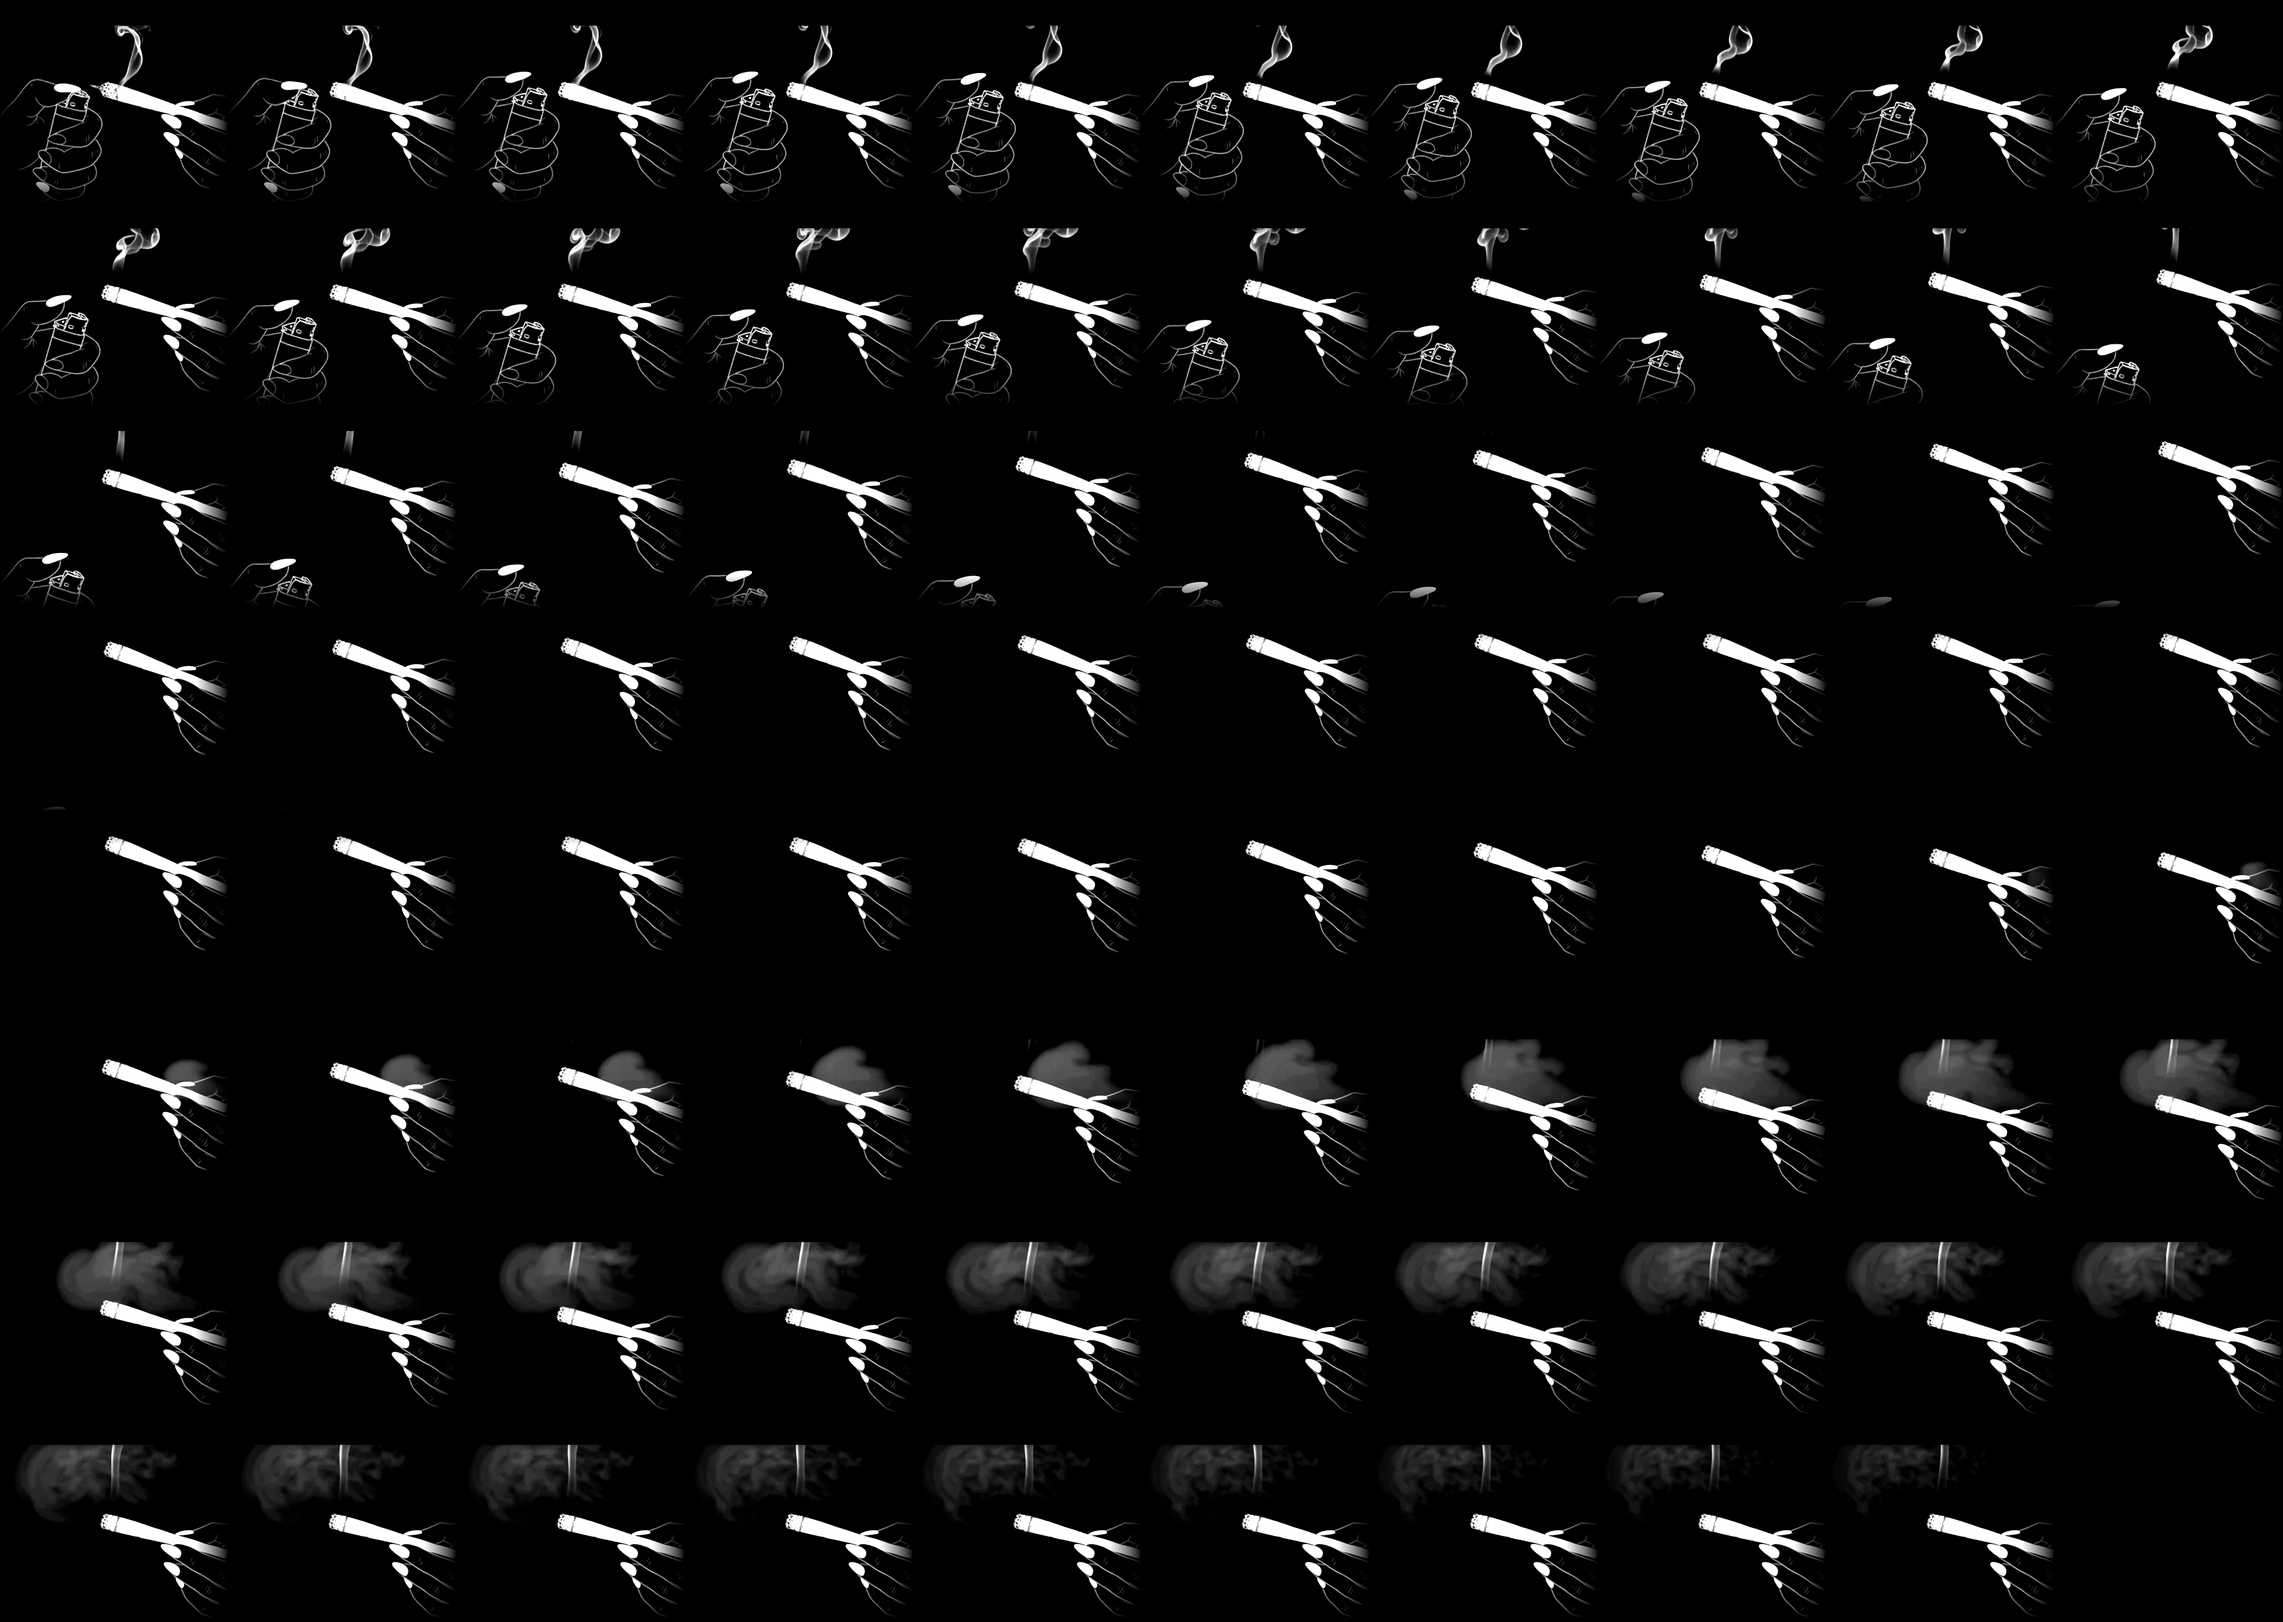
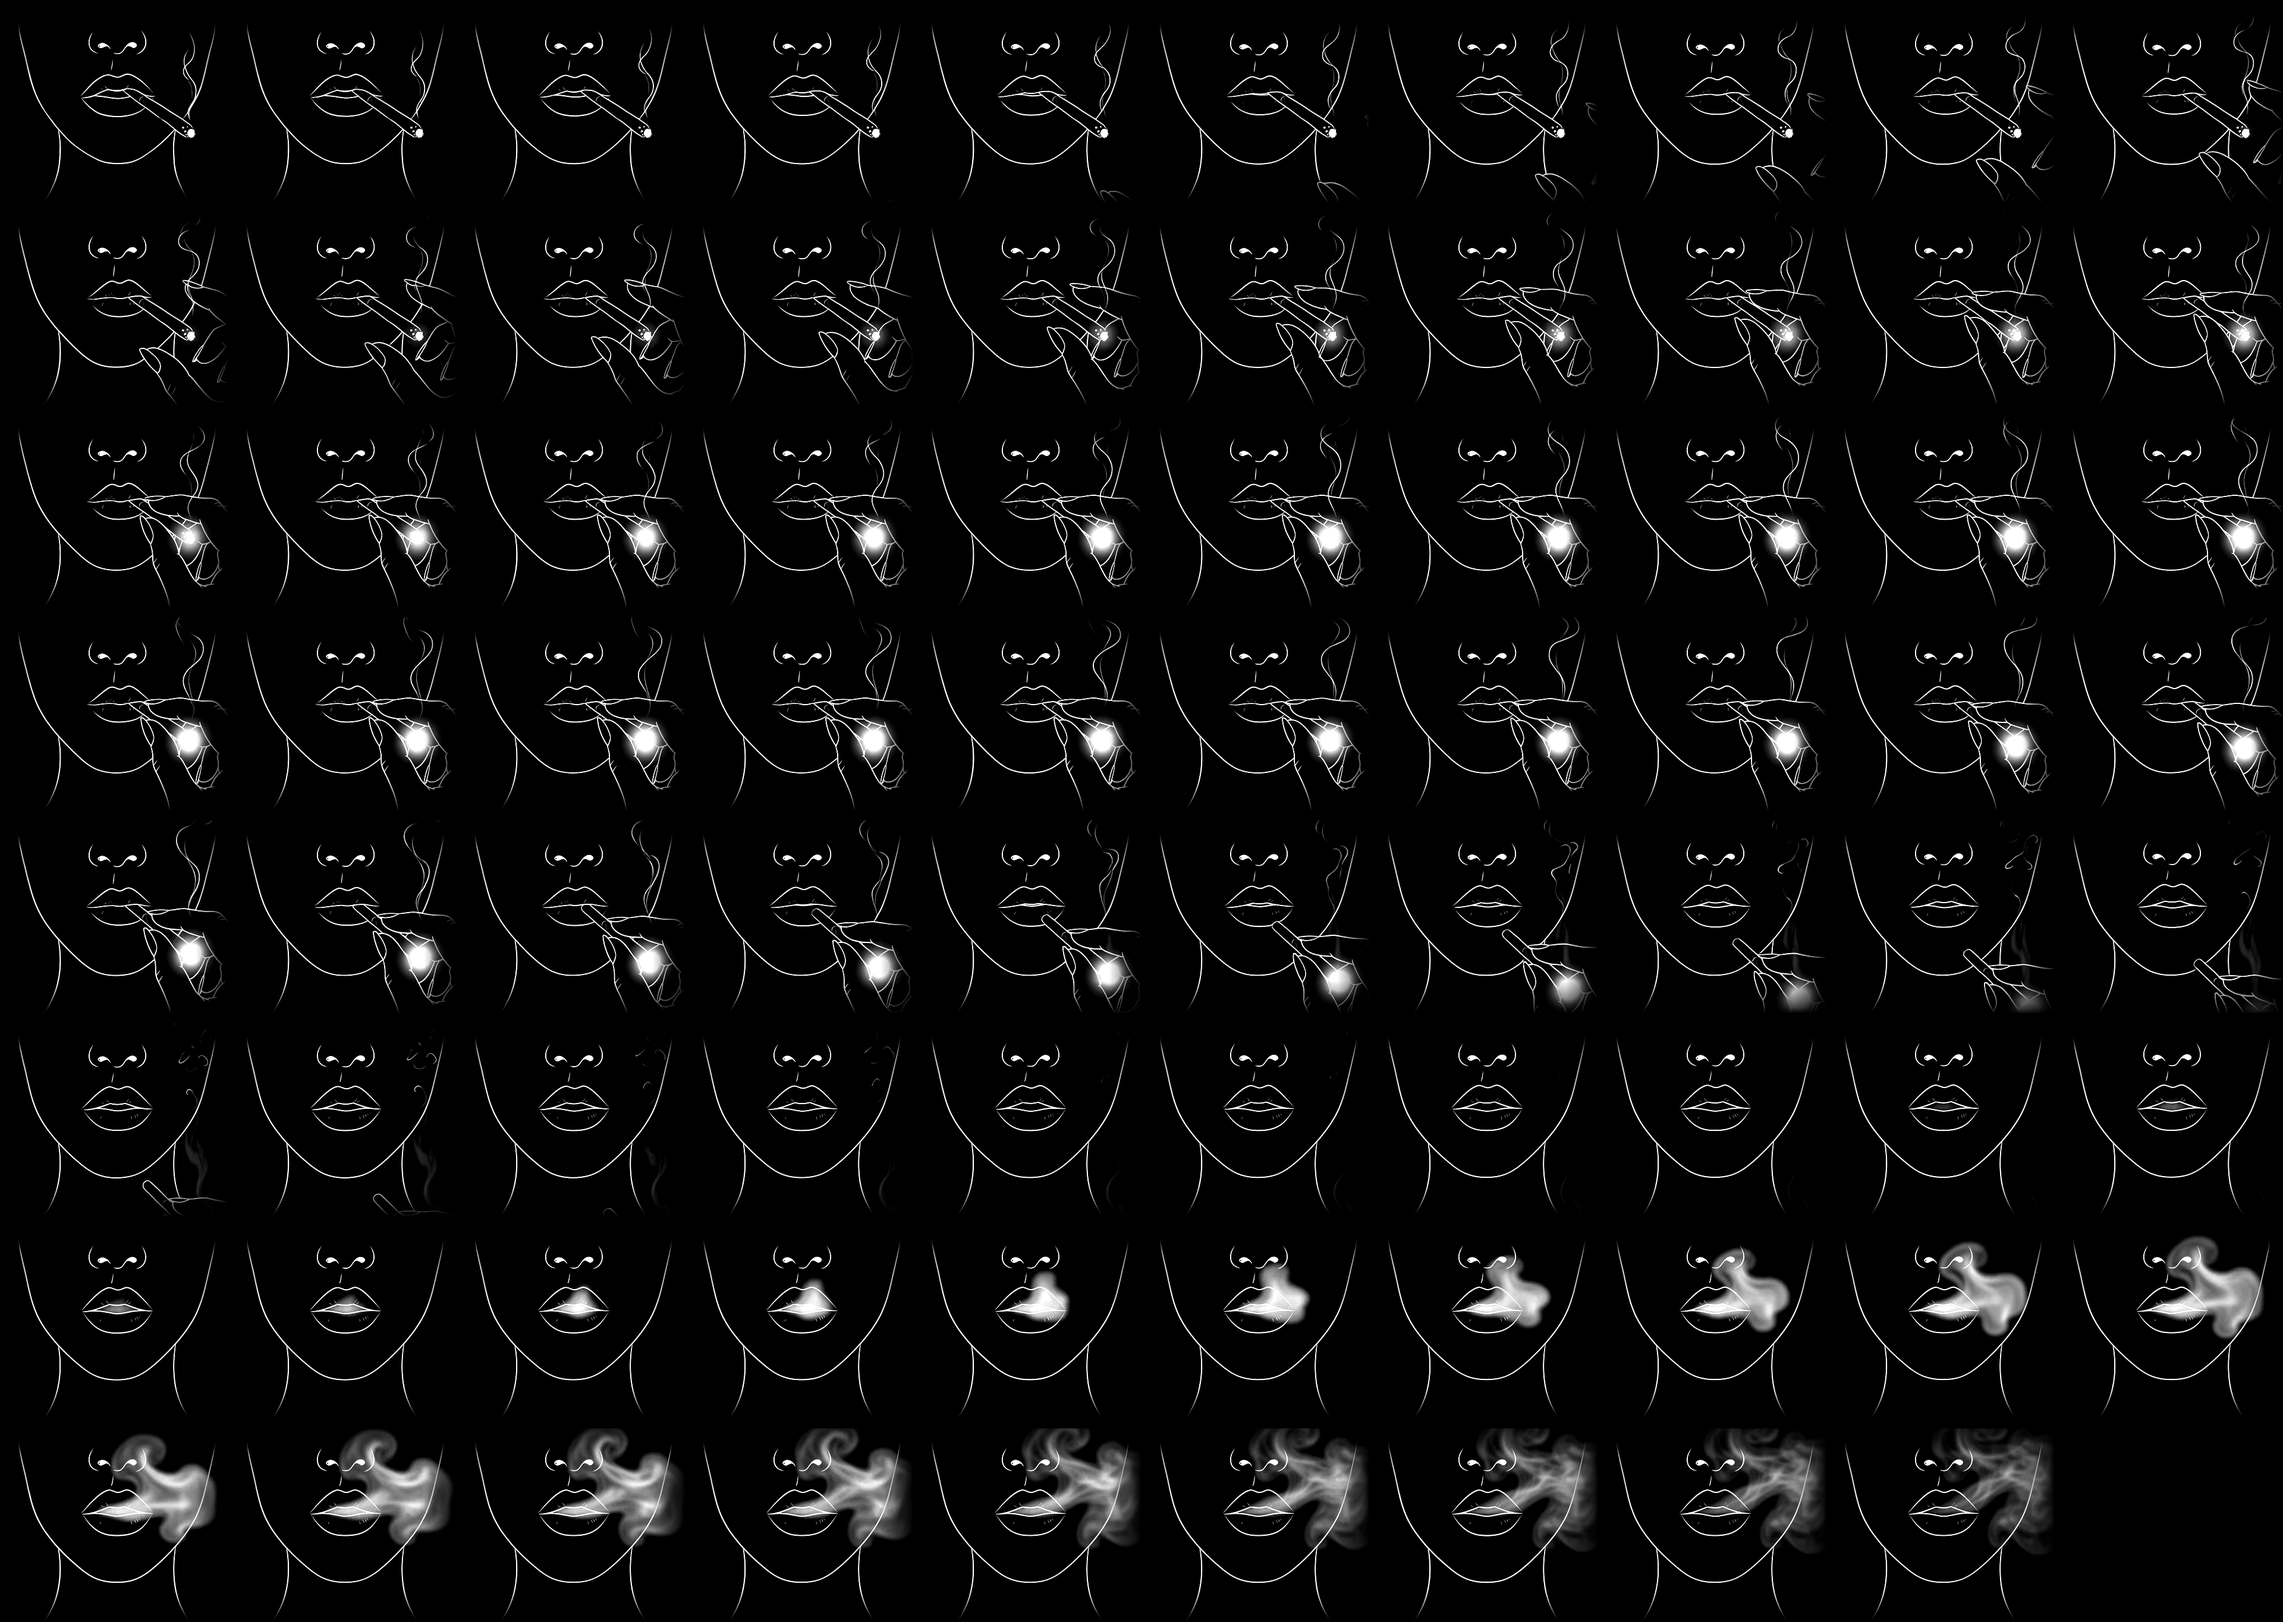
Chapar, fumar de frente e plantinha novos em video
- chapar: rosto de frente solta a fumaca, fecha os olhos e sorri (Wan); fica por baixo do comeco da fase colorida
- fumar: boca de frente (Leonardo); os tragos andam o video e a saida e a fumaca passam na preparacao do relaxar
- plantinha: novo video do Gemini com a erva caindo dentro da seda

diff --git a/js/cenas.js b/js/cenas.js
@@ -10,16 +10,21 @@ const Q_PEGAR = comVideo(quadros('pegar-flor', 25), 'pegar-flor-video', 72);
 const Q_BOLAR = comVideo(quadros('bolar', 25), 'bolar-video', 56, 8);
 const Q_CORTAR = comVideo(quadros('cortar', 21), 'cortar-video', 81);
 const Q_DECHAVAR = comVideo(quadros('dechavar', 21), 'dechavar-video', 108);
-const Q_PLANTA = comVideo(quadros('plantinha', 22), 'plantinha-video', 114);
+const Q_PLANTA = comVideo(quadros('plantinha', 22), 'plantinha-video', 120);
 const Q_ACENDER = quadros('acender', 22);
 const Q_SEDA = comVideo(quadros('seda', 19), 'seda-video', 96);
 const Q_LAMBER = comVideo(quadros('lamber', 22), 'lamber-video', 120);
 const Q_FINALIZAR = comVideo(quadros('finalizar', 22), 'finalizar-video', 120);
-// Fumar feito de um vídeo do Leonardo: a mão do isqueiro sai (até o quadro 40) e a nuvem cresce em volta da ponta.
+// Fumar feito de um vídeo do Leonardo, com a boca de frente: a mão chega (até o quadro 10), ela traga e a ponta
+// brilha (até o 40), a mão tira o baseado (40 a 49) e ela solta a fumaça (62 a 78). Os tragos usam 10 a 40;
+// a saída e a fumaça passam na preparação do relaxar.
 const Q_FUMAR = quadros('fumar-video', 79, 10);
 const fumarVideo = () => !/[?&]semvideo/.test(location.search) && Q_FUMAR.pronto;
-const FUMAR_SAI = 40;
+const FUMAR_CHEGA = 10, FUMAR_TIRA = 40;
 const Q_RELAXAR = comVideo(quadros('relaxar', 22), 'relaxar-video', 79);
+// Chapar: o rosto de frente solta a fumaça, fecha os olhos e sorri (vídeo do Wan, 61 quadros a 12 por segundo).
+const Q_CHAPAR = quadros('chapar-video', 61, 10);
+const chaparVideo = () => !/[?&]semvideo/.test(location.search) && Q_CHAPAR.pronto;
 // do lamber ao acender a câmera fica no close de lado; só o fumar volta para a vista de cima
 // Acender feito a partir de um vídeo do Gemini (Veo): 102 quadros a 12 por segundo, em grade de 10.
 // ?semvideo volta para a tira antiga, para comparar.
@@ -716,16 +721,20 @@ export const PASSOS = [
       else desenhaQuadro(Q_ACENDER, 21, CLOSE.x, CLOSE.y, CLOSE.s, 1 - k);
       comAlfa(k, () => this.codigo(u));
     },
-    // Com o vídeo o close continua: a mão do isqueiro sai antes da etapa e a nuvem cresce a cada trago.
-    // A fumaça soprada (código) sai do alto, de onde estaria a boca, fora do quadro.
+    // Com o vídeo: o close do isqueiro se dissolve na boca de frente; a cada trago o vídeo anda e a fumaça
+    // soprada (código) sai dos lábios.
     video(u) {
       C.tinta = clamp(u) * .85;
       C.pontaAcesa = null;
-      C.bocaSopro = { x: CLOSE.x - 60, y: CLOSE.y - 300 };
-      const f = u < 0 ? (u + 1) * FUMAR_SAI : FUMAR_SAI + (Q_FUMAR.n - 1 - FUMAR_SAI) * clamp(u);
-      desenhaQuadro(Q_FUMAR, f, CLOSE.x, CLOSE.y, CLOSE.s, 1);
-      const cor = corFumaca();
-      C.fumaSopro.desenha(cor);
+      C.bocaSopro = { x: CLOSE.x + 10, y: CLOSE.y - 15 };
+      const k = suave(faixa(u, -1, -.2));
+      if (k < 1) {
+        if (acv()) desenhaQuadro(Q_ACV, ACV_FIM, CLOSE.x, CLOSE.y, CLOSE.s, 1 - k);
+        else if (Q_ACENDER.pronto) desenhaQuadro(Q_ACENDER, 21, CLOSE.x, CLOSE.y, CLOSE.s, 1 - k);
+      }
+      const f = u < 0 ? 0 : FUMAR_CHEGA + (FUMAR_TIRA - FUMAR_CHEGA) * clamp(u);
+      desenhaQuadro(Q_FUMAR, f, CLOSE.x, CLOSE.y, CLOSE.s, k);
+      C.fumaSopro.desenha(corFumaca());
     },
     codigo(u) {
       const W = C.M.sedaW;
@@ -761,14 +770,15 @@ export const PASSOS = [
   // Relaxar: a cabeça desce e sai de cena, e sobram as duas mãos abertas.
   {
     v: 'relaxar', modo: 'toque',
-    get dur() { return Q_RELAXAR.video?.pronto ? 6 : 4.4; }, pre: .6, cam: 115, aoAcao: () => { sfx.solta(.5); C.fitaBrasa && (C.fitaBrasa.ativa = false); },
+    get dur() { return Q_RELAXAR.video?.pronto ? 6 : 4.4; }, get pre() { return fumarVideo() ? 3 : .6; }, cam: 115, aoAcao: () => { sfx.solta(.5); C.fitaBrasa && (C.fitaBrasa.ativa = false); },
     // a vista de cima se dissolve no close do cinzeiro
     draw(u) {
       if (!Q_RELAXAR.pronto) return this.codigo(u);
-      const k = suave(faixa(u, -1, .05));
-      // com o fumar em vídeo, o close dele se dissolve no cinzeiro; sem ele, a vista de cima desenhada
+      // com o fumar em vídeo, a preparação mostra a mão tirando o baseado e a fumaça saindo da boca,
+      // e só no fim se dissolve no cinzeiro; sem ele, a vista de cima desenhada
+      const k = suave(faixa(u, fumarVideo() ? -.22 : -1, .05));
       if (fumarVideo()) {
-        desenhaQuadro(Q_FUMAR, Q_FUMAR.n - 1, CLOSE.x, CLOSE.y, CLOSE.s, 1 - k);
+        desenhaQuadro(Q_FUMAR, FUMAR_TIRA + (Q_FUMAR.n - 1 - FUMAR_TIRA) * clamp((u + 1) / .85), CLOSE.x, CLOSE.y, CLOSE.s, 1 - k);
         C.fumaSopro.desenha(corFumaca());
       } else comAlfa(1 - k, () => this.codigo(u));
       if (k >= 1) {
@@ -810,8 +820,19 @@ export const PASSOS = [
   },
   // 12 -----------------------------------------------------------
   {
-    v: 'chapar', modo: 'toque', dur: .1, pre: .5, cam: 115, aoAcao: () => sfx.floresce(),
-    draw() {
+    v: 'chapar', modo: 'toque', cam: 115, aoAcao: () => sfx.floresce(),
+    get dur() { return chaparVideo() ? 5 : .1; },
+    get pre() { return chaparVideo() ? 1.6 : .5; },
+    // com o vídeo: o cinzeiro se dissolve no rosto; o toque solta a fumaça e ela fecha os olhos
+    draw(u = 0) {
+      if (chaparVideo()) {
+        const k = suave(faixa(u, -1, -.1));
+        if (k < 1) {
+          const f = Q_RELAXAR.video?.pronto ? 18 + 3 * Math.cos(G.t * .5) : 21;
+          if (Q_RELAXAR.pronto) desenhaQuadro(Q_RELAXAR, f, CLOSE.x, CLOSE.y, CLOSE.s * .85, 1 - k);
+        }
+        return desenhaQuadro(Q_CHAPAR, u < 0 ? 0 : clamp(u) * (Q_CHAPAR.n - 1), CLOSE.x, CLOSE.y, CLOSE.s, k);
+      }
       const cor = corFumaca();
       C.fumaSopro.desenha(cor);
       C.fumaBrasa.desenha(cor);
@@ -824,5 +845,10 @@ export const PASSOS = [
     },
   },
 ];
+
+// último quadro do chapar, desenhado por baixo do começo da fase colorida
+export function rostoFinal(a) {
+  if (chaparVideo()) desenhaQuadro(Q_CHAPAR, Q_CHAPAR.n - 1, CLOSE.x, CLOSE.y, CLOSE.s, a);
+}
 
 export { ANC_L, ANC_R, FORA_L, FORA_R, arco, desenhaChama };

diff --git a/js/main.js b/js/main.js
@@ -1,5 +1,5 @@
 import { G, clamp, lerp, suave, faixa } from './motor.js';
-import { PASSOS, C, novaSessao, atualizaEfeitos, sopra } from './cenas.js';
+import { PASSOS, C, novaSessao, atualizaEfeitos, sopra, rostoFinal } from './cenas.js';
 import { flor } from './objetos.js';
 import { Chapado, DURACAO } from './chapado.js';
 import { iniciarSom, tiqueSom, loop, pararLoops, faseChapada, alternarSom, proximaFaixa, quandoTrocarFaixa } from './som.js';
@@ -251,6 +251,8 @@ function desenha() {
   // Fase colorida: círculo de cor se abre a partir das mãos
   const fim = J.flood > DURACAO ? clamp(J.fimFade / 6) : 0;
   chapado.pinta(escala, J.cam);
+  // o rosto do chapar fica por baixo e some enquanto a cor se abre
+  if (J.flood < 6) rostoFinal(1 - suave(J.flood / 6));
   ctx.setTransform(1, 0, 0, 1, 0, 0);
   const R = Math.hypot(W, H) * suave(J.flood / 5);
   ctx.save();
